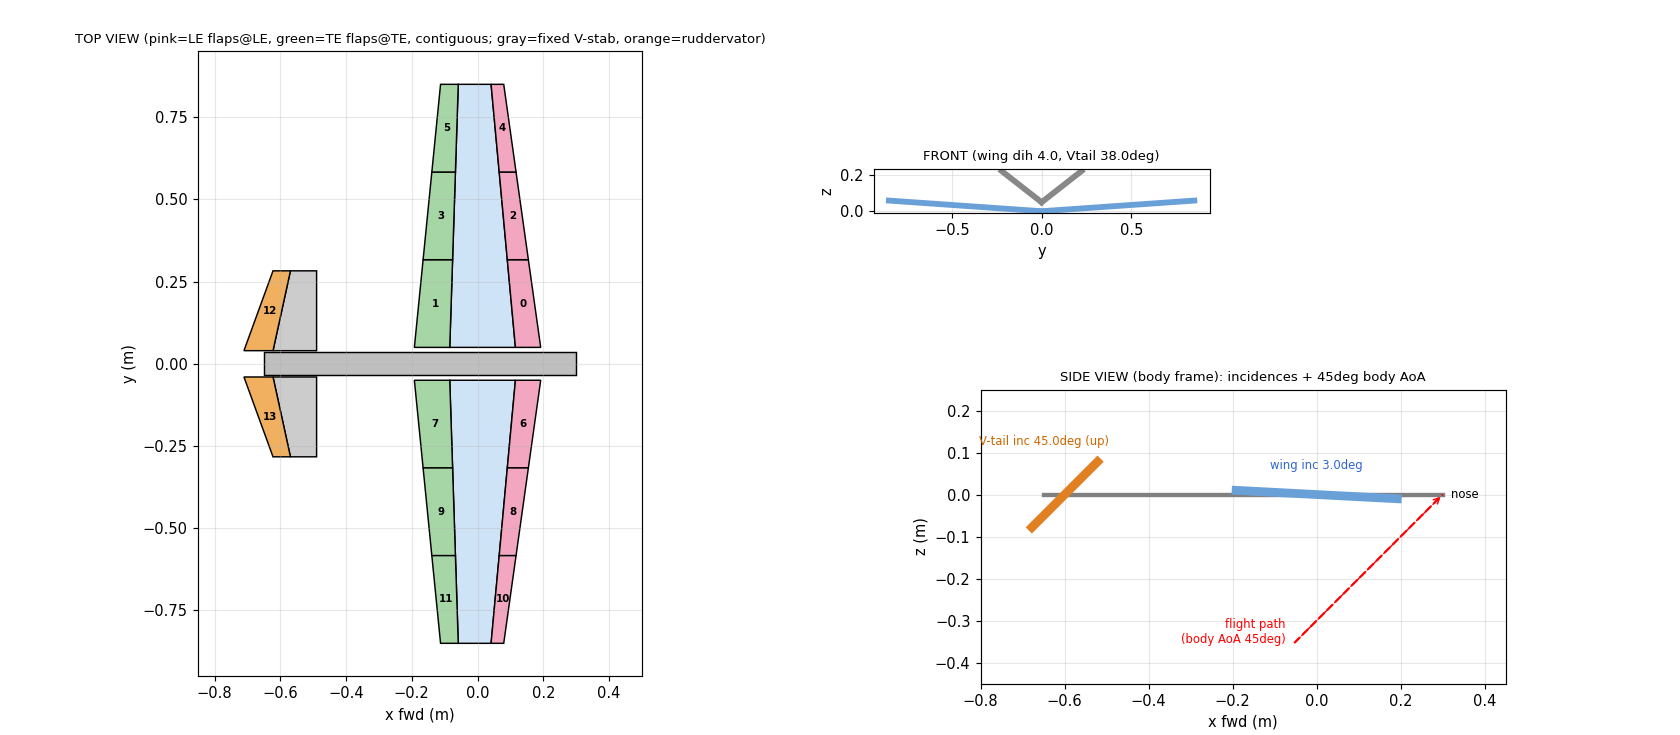
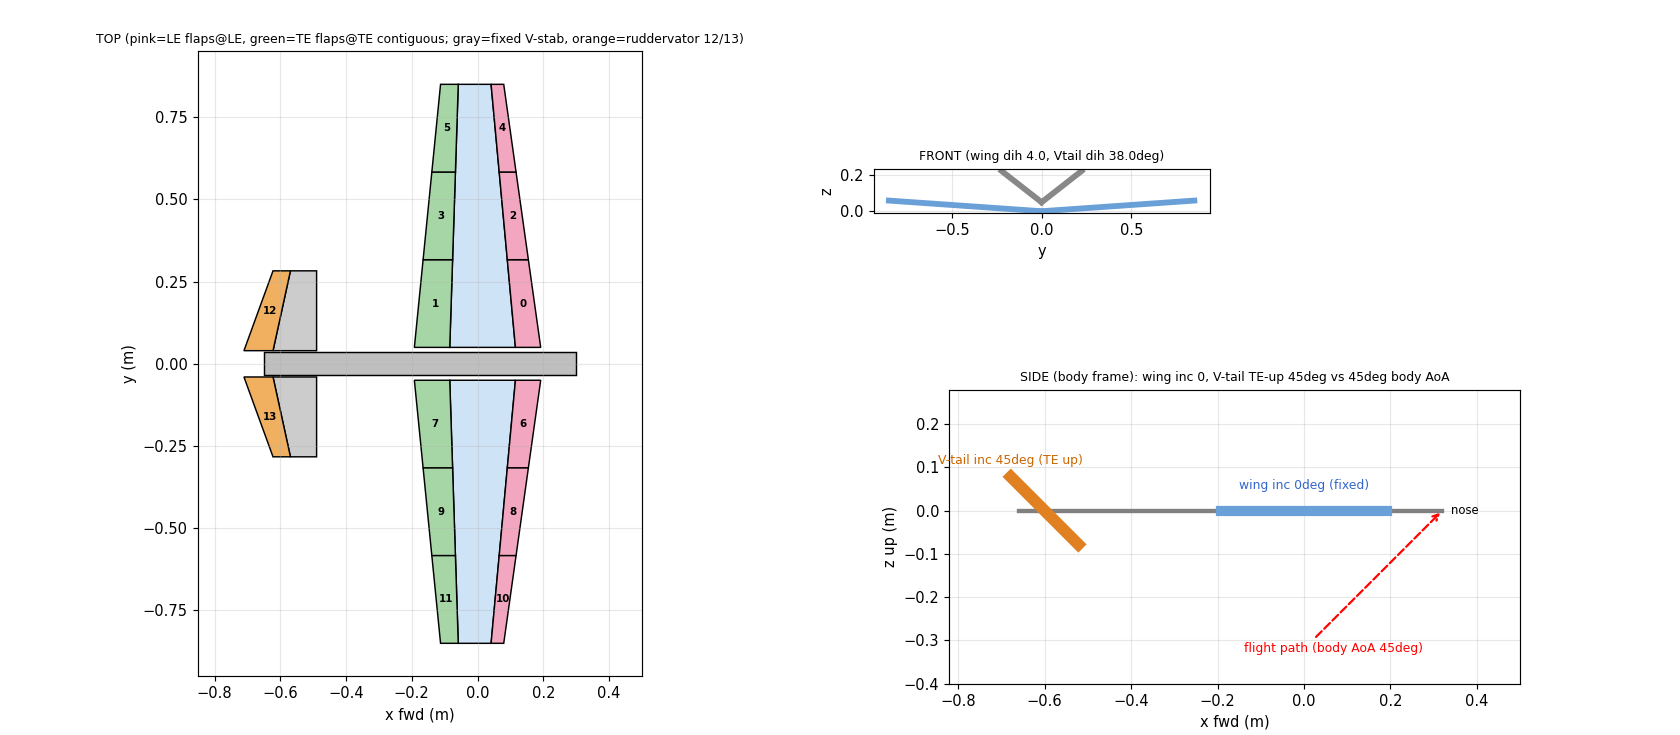
fix: wing incidence fixed 0deg + consistent TE-up tail in layout.png
- WingDesign.incidence_deg = 0 (fixed; wing makes lift/thrust by flapping at
  high AoA, not a design variable)
- regenerate docs/aircraft_layout.png side view to match aircraft_tail_incidence.png
  (V-tail trailing-edge-up 45deg; the earlier 3-view had a stale LE-up tail)

diff --git a/platform/aircraft_geom.py b/platform/aircraft_geom.py
@@ -28,7 +28,8 @@ class WingDesign:
     taper: float = 0.5           # tip chord / root chord (根稍比 = root/tip = 1/taper)
     sweep_le_deg: float = 8.0    # leading-edge sweep
     dihedral_deg: float = 4.0    # 上反角
-    incidence_deg: float = 3.0   # 安装角 (root)
+    incidence_deg: float = 0.0   # 安装角 — FIXED at 0 (wing makes lift/thrust by
+    #                              flapping at high AoA; not a design variable)
     root_offset: float = 0.05    # half fuselage width (wing root y)
     le_flap_frac: float = 0.20   # LE flap = front 20% chord
     te_flap_frac: float = 0.28   # TE flap = rear 28% chord